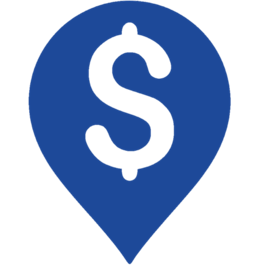
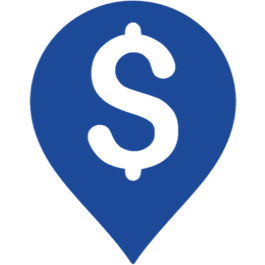
이미지 변경 및 지도에 편의시설 표시

diff --git a/FrontEnd/src/components/house/HouseMap.vue b/FrontEnd/src/components/house/HouseMap.vue
@@ -16,6 +16,7 @@
         data-order="1"
         class="category_bg mart"
         :class="{ selected: martSelected }"
+        @click="selectMarket"
       >
         마트
       </b-list-group-item>
@@ -24,11 +25,12 @@
         data-order="2"
         class="category_bg pharmacy"
         :class="{ selected: hpSelected }"
+        @click="selectHospital"
       >
-        약국
+        병원
       </b-list-group-item>
     </b-list-group>
-    <b-img src="require('@/assets/img/bank.png')" />
+    <b-img src="" />
     <div id="map" class="map" style="height:600px"></div>
   </b-container>
 </template>
@@ -53,10 +55,10 @@ export default {
       bankSelected: false,
       martSelected: false,
       hpSelected: false,
-      imgSrc: [
-        "public\img\bank.png",
-        "public\img\hospital.png",
-        "public\img\market.png",
+      imgSrcs: [
+        "https://github.com/yoon828/happyhouse/blob/main/FrontEnd/src/assets/img/bank.png?raw=true",
+        "https://github.com/yoon828/happyhouse/blob/main/FrontEnd/src/assets/img/market.png?raw=true",
+        "https://github.com/yoon828/happyhouse/blob/main/FrontEnd/src/assets/img/hospital.png?raw=true",
       ],
     };
   },
@@ -185,7 +187,7 @@ export default {
     },
 
     //편의시설 관련 메소드
-
+    //은행 선택
     selectBank() {
       if (this.bankSelected) {
         this.bankSelected = false;
@@ -194,6 +196,26 @@ export default {
       } else {
         this.bankSelected = true;
         this.findSide(0, "BK9");
+      }
+    },
+    selectMarket() {
+      if (this.martSelected) {
+        this.martSelected = false;
+        //마커에 은행 제거하기
+        this.removeMarkerSide(1);
+      } else {
+        this.martSelected = true;
+        this.findSide(1, "MT1");
+      }
+    },
+    selectHospital() {
+      if (this.hpSelected) {
+        this.hpSelected = false;
+        //마커에 은행 제거하기
+        this.removeMarkerSide(2);
+      } else {
+        this.hpSelected = true;
+        this.findSide(2, "HP8");
       }
     },
     findSide(idx, code) {
@@ -215,12 +237,11 @@ export default {
     // },
     //편의시설 관련 마커 추가
     displayMarkerSide(idx, data) {
-      let map = this.map;
       let bounds = new kakao.maps.LatLngBounds();
       this.removeMarkerSide(idx);
 
-      let imgSrc = "public/img/bank.png",
-        imgSize = new kakao.maps.Size(50, 50),
+      let imgSrc = this.imgSrcs[idx],
+        imgSize = new kakao.maps.Size(40, 50),
         markerImage = new kakao.maps.MarkerImage(imgSrc, imgSize);
 
       data.map((item) => {
@@ -234,10 +255,10 @@ export default {
         this.sideMarkers[idx].push(mk);
 
         //지도 범위를 재설정하기 위해 LatLngBounds에 좌표를 추가
-        bounds.extend(itemPositon);
+        // bounds.extend(itemPositon);
       });
       //검색된 장소 위치를 기준으로 지도 범위 재설정
-      this.map.setBounds(bounds);
+      // this.map.setBounds(bounds);
     },
     removeMarkerSide(idx) {
       for (let i = 0; i < this.sideMarkers[idx].length; i++) {
